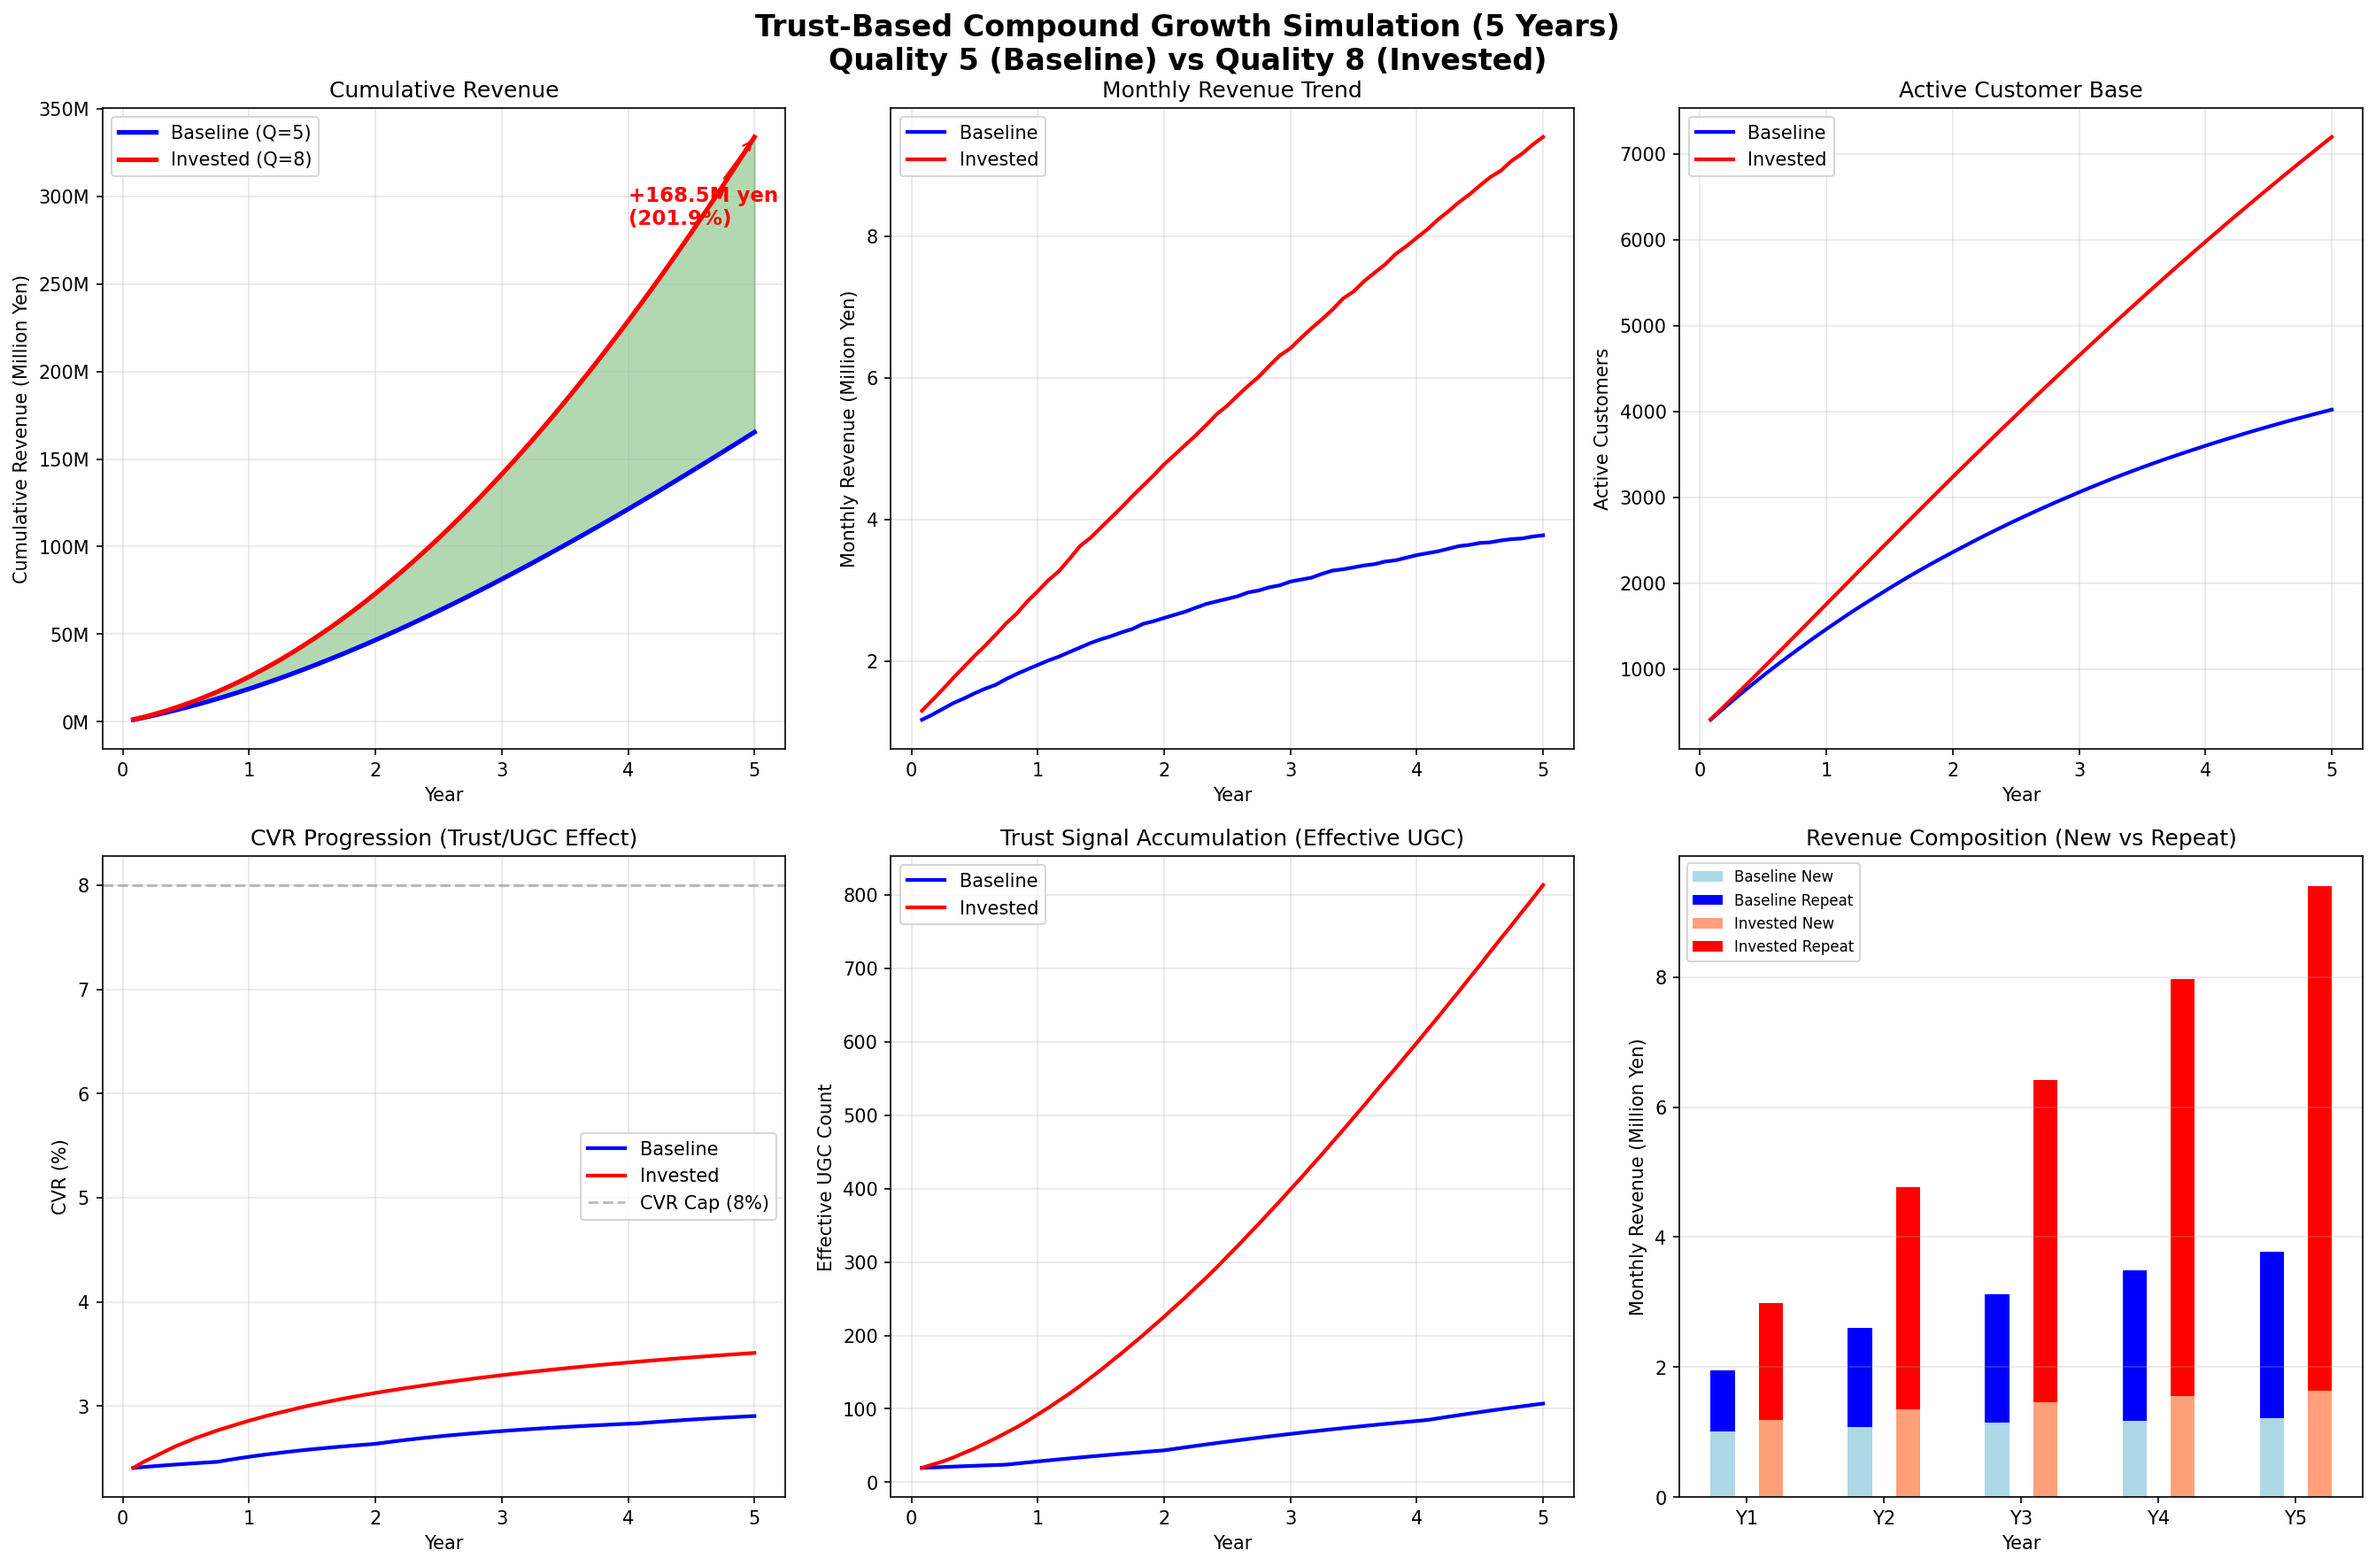
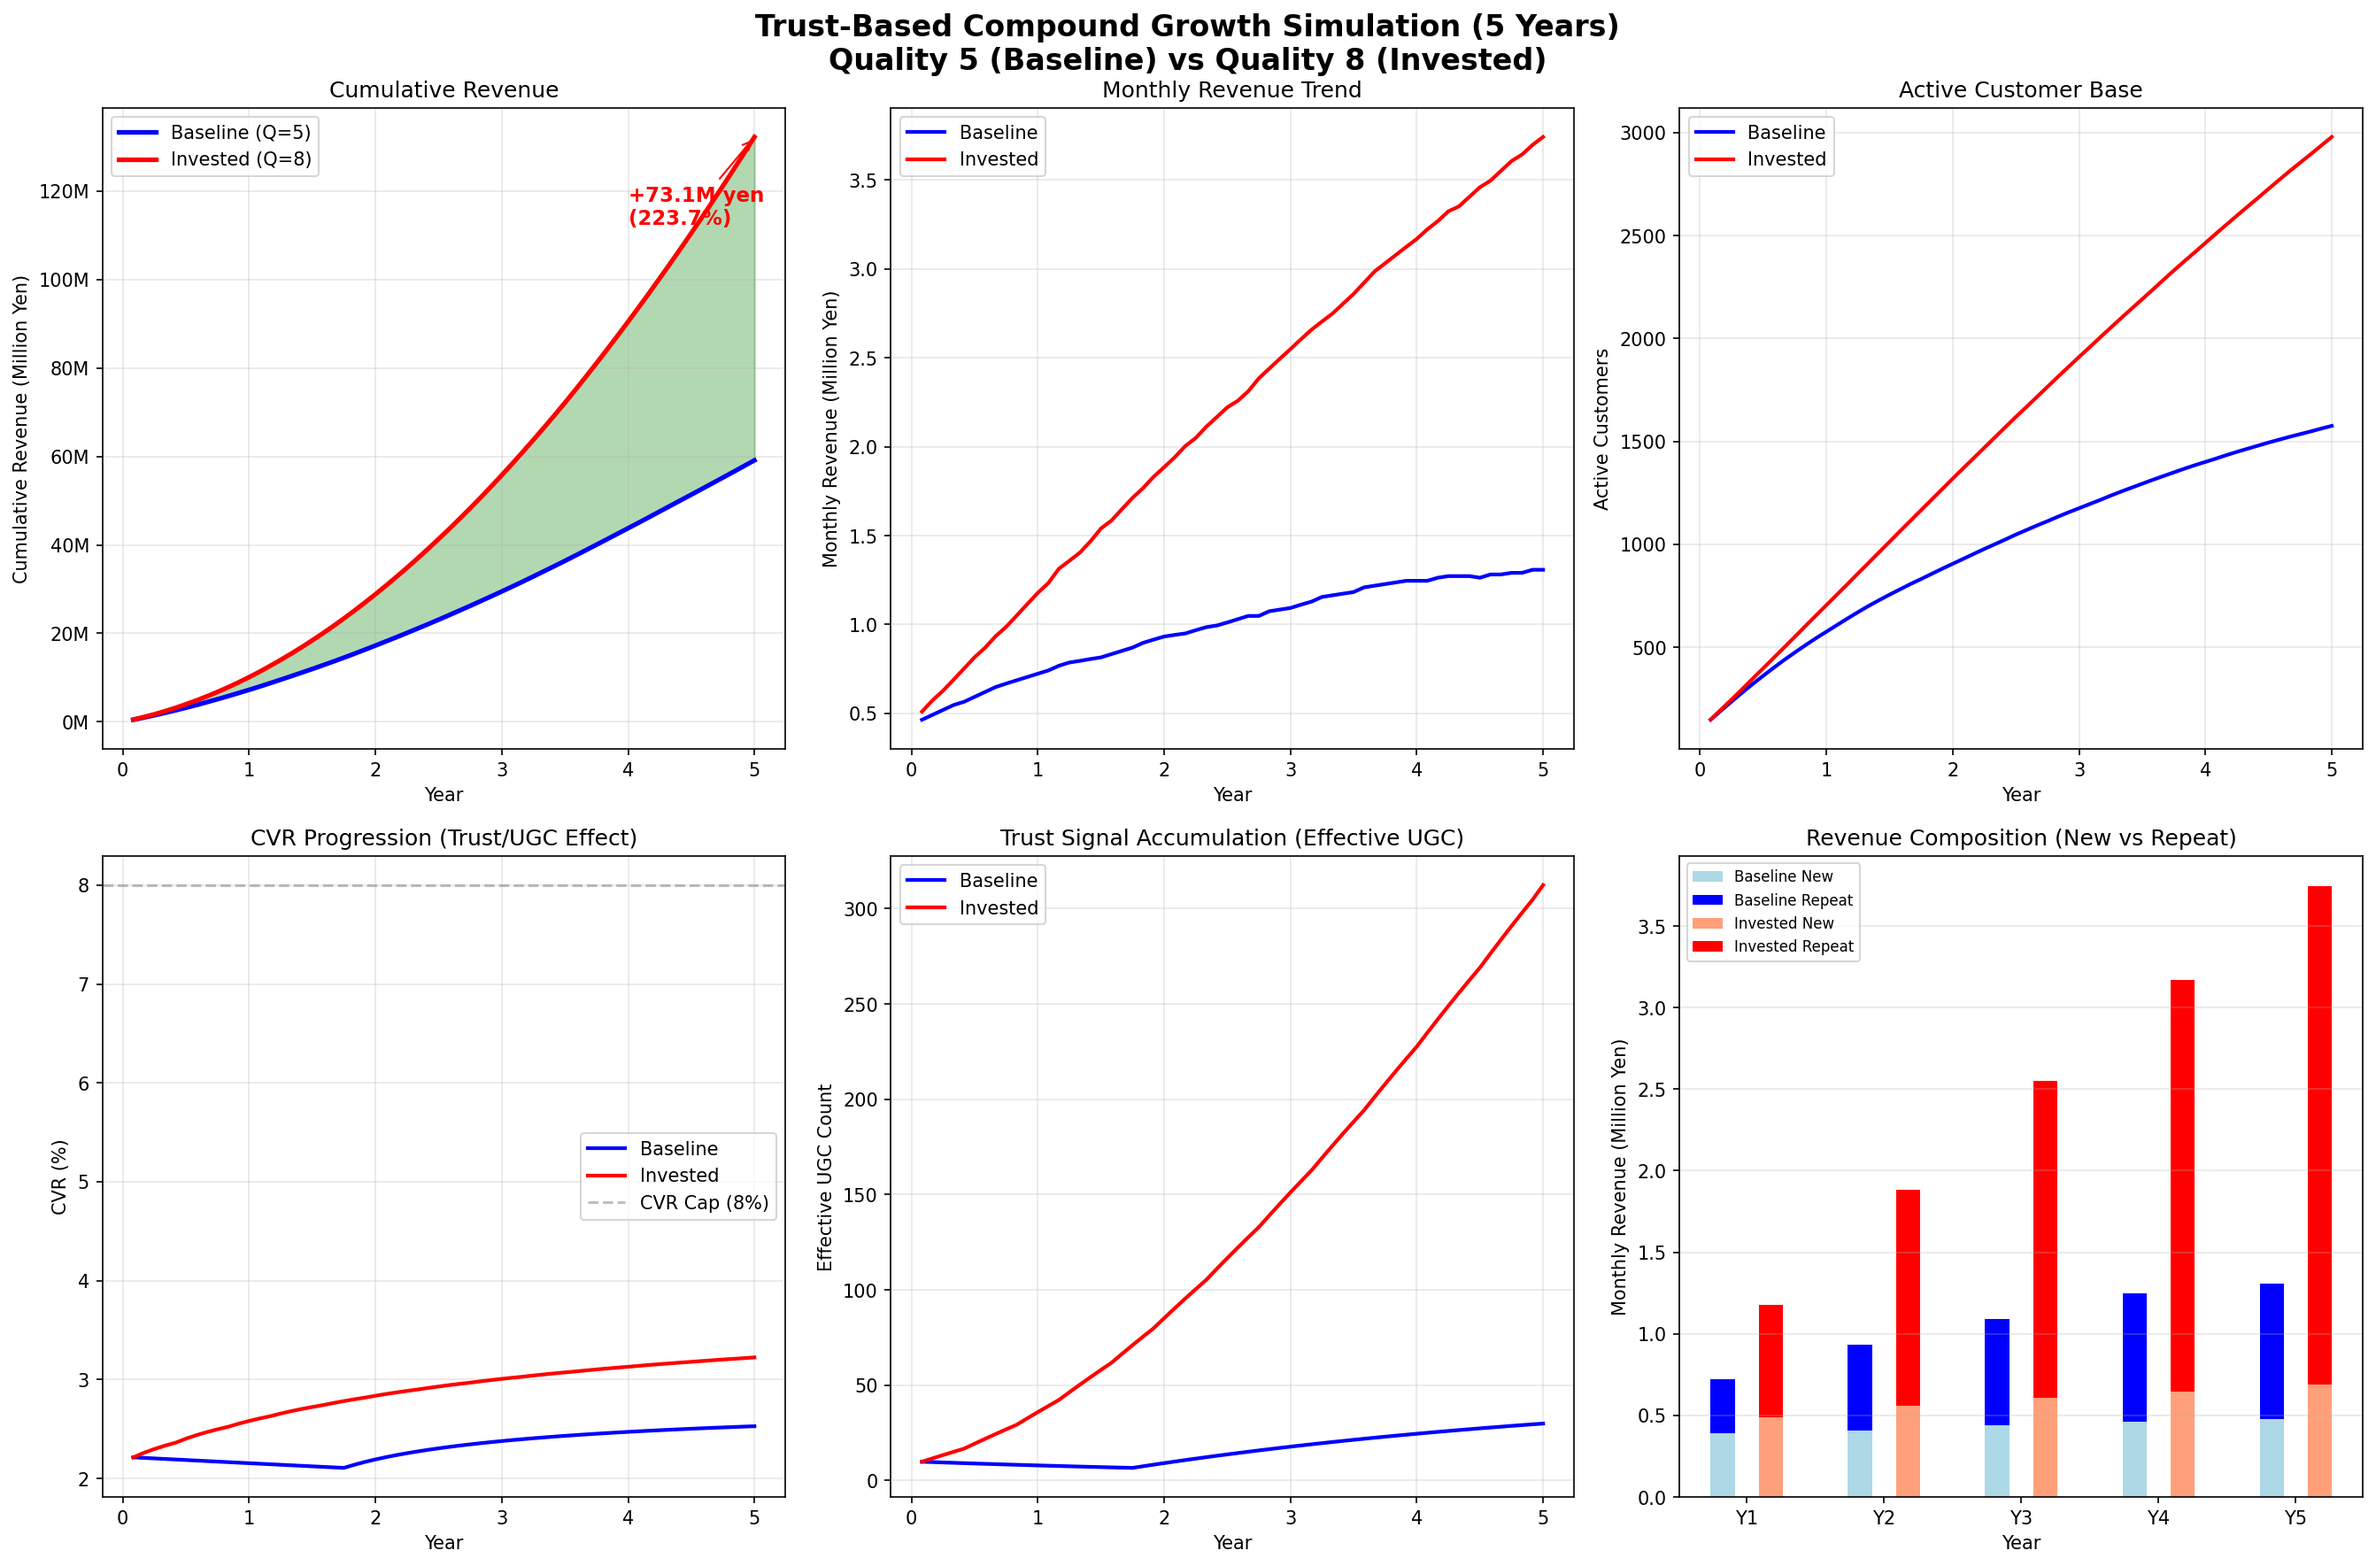
Adjust parameters for 10M yen first year invested scenario
- Reduced monthly visitors: 5000 → 2300
- Reduced initial customers: 300 → 100
- Initial UGC: 20 → 10

5-year results with adjusted scale:
- Y1 Invested: 10.1M yen (baseline 7.2M)
- Y5 Invested: 132.2M yen (baseline 59.1M) = +123.7%
- Additional revenue over 5 years: +73.1M yen

https://claude.ai/code/session_01DdAVE9t8oSv3PnjW4e69st

diff --git a/src/simulation.py b/src/simulation.py
@@ -25,7 +25,7 @@ class SimulationParams:
     trust_quality: float = 5.0
 
     # 顧客獲得
-    monthly_visitors: int = 5000          # 月間サイト訪問者数
+    monthly_visitors: int = 2300          # 月間サイト訪問者数
     base_cvr: float = 0.015               # 基準CVR (1.5%)
 
     # 信頼効果 → CVR改善（対数関数で逓減）
@@ -54,8 +54,8 @@ class SimulationParams:
     repeat_order_premium: float = 1.15    # リピーターの客単価係数
 
     # 初期条件
-    initial_customers: int = 300
-    initial_ugc: int = 20
+    initial_customers: int = 100
+    initial_ugc: int = 10
 
     # シミュレーション期間
     months: int = 60  # 5年
